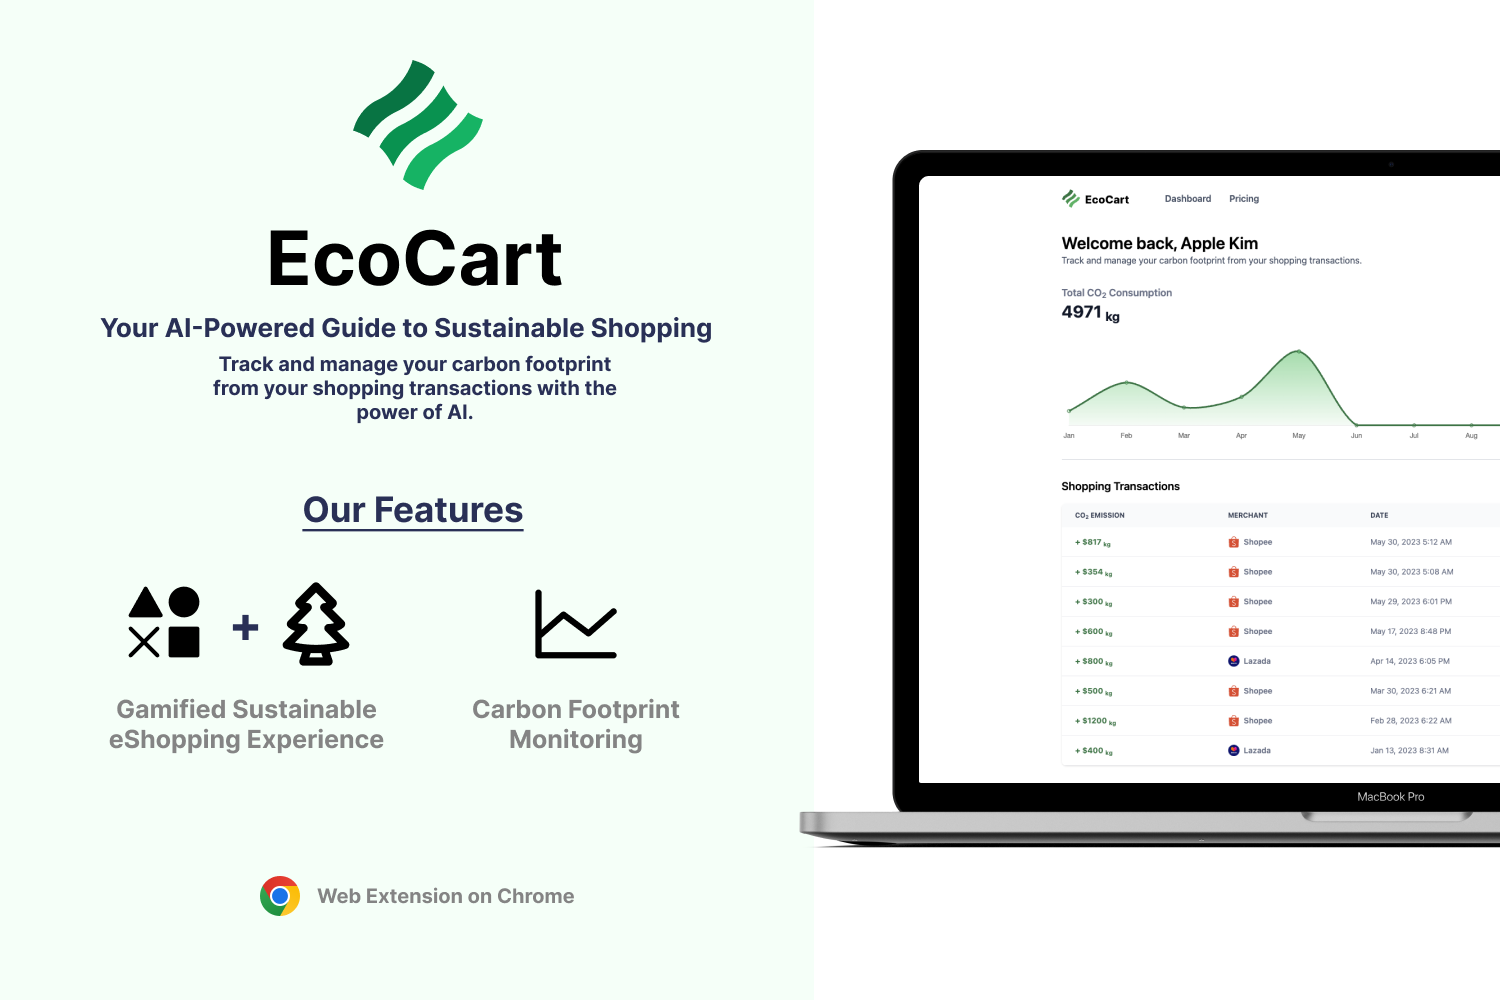
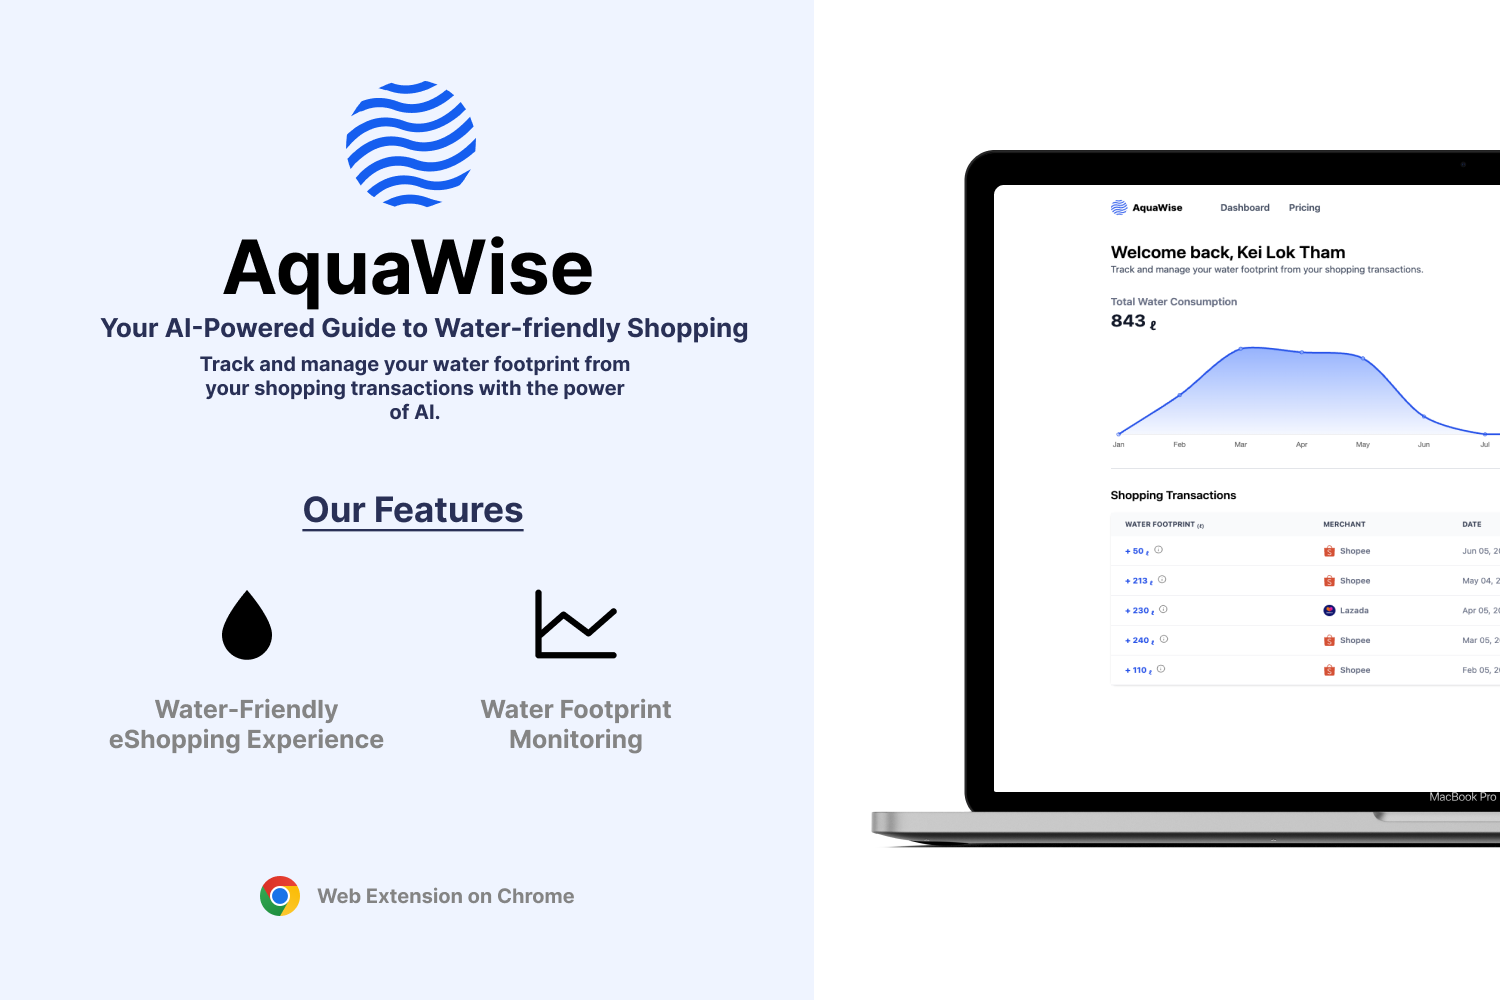
[Feat] Tidying up the code base (final push?)

diff --git a/web-app/components/pages/Dashboard/index.jsx b/web-app/components/pages/Dashboard/index.jsx
@@ -7,10 +7,12 @@ import { useEffect, useState } from "react";
 import Button from "@/components/shared/Button";
 import LogoSGID from "@/public/assets/img/logo-sgid.png";
 import Image from "next/image";
+import { Tooltip as FlowbiteTooltip } from "flowbite-react";
 import { useRouter } from "next/router";
 import { toast } from "react-toastify";
 import LogoShopee from "@/public/assets/svg/icon-shopee.svg";
 import LogoLazada from "@/public/assets/svg/icon-lazada.svg";
+import LogoInfo from "@/public/assets/svg/icon-info.svg";
 import dayjs from "dayjs";
 import { Line } from "react-chartjs-2";
 import {
@@ -24,6 +26,7 @@ import {
   Legend
 } from "chart.js";
 import { chartData, chartLabels, chartOptions } from "./chart";
+import { mockTransactions } from "./mock";
 
 const Dashboard = () => {
   const supabaseClient = useSupabaseClient();
@@ -104,12 +107,54 @@ const Dashboard = () => {
               return true;
             });
 
+            const breakdownJSON = JSON.parse(data.breakdown);
+            let formattedBreakdown = `Breakdown: \n\n`;
+            // Loop through breakdown JSON
+            if (data.breakdown) {
+              Object.keys(breakdownJSON).forEach(function (key1, index1) {
+                if (index1 !== Object.keys(breakdownJSON).length - 1) {
+                  formattedBreakdown += `Product: ${key1}\n`;
+                } else {
+                  formattedBreakdown += `\n\nProduct: ${key1}\n`;
+                }
+
+                Object.keys(breakdownJSON[key1]).forEach(function (
+                  key2,
+                  index2
+                ) {
+                  const formattedKey =
+                    key2.charAt(0).toUpperCase() + key2.slice(1);
+                  if (index2 !== Object.keys(breakdownJSON[key1]).length - 1) {
+                    formattedBreakdown += `- ${formattedKey}: ${breakdownJSON[key1][key2]}\n`;
+                  } else {
+                    formattedBreakdown += `- ${formattedKey}: ${breakdownJSON[key1][key2]}`;
+                  }
+                });
+              });
+            }
+
             return [
               {
                 value: (
-                  <p>
-                    + ${data.water_footprint} <sub>litres (ℓ)</sub>
-                  </p>
+                  <div className="flex">
+                    <p>
+                      + {data.water_footprint} <sub> ℓ</sub>
+                    </p>
+                    <FlowbiteTooltip
+                      content={
+                        <div style={{ whiteSpace: "pre" }}>
+                          {formattedBreakdown}
+                        </div>
+                      }
+                    >
+                      <Image
+                        className="cursor-pointer ml-2"
+                        src={LogoInfo}
+                        width={15}
+                        alt="info"
+                      />
+                    </FlowbiteTooltip>
+                  </div>
                 ),
                 isLink: false
               },
@@ -132,7 +177,6 @@ const Dashboard = () => {
         setRawChartData(chartDataArr);
         setTotalCO(chartDataArr.reduce((a, b) => a + b, 0));
       }
-      console.log(dataTwo);
     })();
   }, []);
 
@@ -168,7 +212,7 @@ const Dashboard = () => {
   );
 
   return (
-    <MainLayout title={"Dashboard | EcoCart"}>
+    <MainLayout title={"Dashboard | AquaWise"}>
       {sgidVerified ? (
         <div className="max-w-screen-xl flex flex-col m-auto justify-center px-16">
           <div className="mt-5">
@@ -223,7 +267,8 @@ const Dashboard = () => {
               Verification Required.
             </h1>
             <p className="text-md text-gray-600">
-              To access EcoCart's services, please verify your account via SGID.
+              To access AquaWise's services, please verify your account via
+              SGID.
             </p>
           </div>
 

diff --git a/extensions/src/foreground.ts b/extensions/src/foreground.ts
@@ -332,7 +332,10 @@ async function getProductCarbonFootprintData(productInformation) {
 
     return res.data;
   } catch (err) {
-    console.log("Error occured while fetching product's carbon footprint data", err);
+    console.log(
+      "Error occured while fetching product's carbon footprint data",
+      err,
+    );
   }
 }
 
@@ -448,7 +451,7 @@ const addReinforcement = async function (data: string) {
 
   const node = document.createElement('div');
   node.id = 'ecocart-flag';
-  node.innerHTML = `<div class="ecocart-banner" style="border: 1px solid let(--petalc); color: let(--petalc); background: #CBF0C1; padding: 1rem; font: 0.9rem sans-serif; margin-bottom: 1rem; padding-left: 1rem; padding-top: 1rem; padding-bottom: 1rem; border-radius: 5px;">
+  node.innerHTML = `<div class="ecocart-banner" style="border: 1px solid let(--petalc); color: let(--petalc); background: #D1E0FF; padding: 1rem; font: 0.9rem sans-serif; margin-bottom: 1rem; padding-left: 1rem; padding-top: 1rem; padding-bottom: 1rem; border-radius: 5px;">
       <span style="display: flex; justify-content: center; align-items: center;">
         <span class="tooltip">
           <img src="https://cdn-icons-png.flaticon.com/512/665/665049.png" style="height: 17px; width: 17px; margin-right: 10px;">
@@ -459,8 +462,8 @@ const addReinforcement = async function (data: string) {
         </p>
       </span>
       <div style="display: flex; justify-content: flex-end; align-items: center;">
-        <img src="https://ecocart-lifehack2023.netlify.app/favicon.ico" style="height: 17px; width: 17px; margin-right: 10px;" />
-        <h1 style="font-size: 12px;">EcoCart</h1>
+        <img src="http://localhost:3002/favicon.ico" style="height: 17px; width: 17px; margin-right: 10px;" />
+        <h1 style="font-size: 12px;">AquaWise</h1>
       </div>  
     </div>`;
 

diff --git a/web-app/components/pages/Dashboard/mock.js b/web-app/components/pages/Dashboard/mock.js
@@ -3,30 +3,42 @@ export const mockTransactions = [
     water_footprint: 300,
     merchant: "Shopee",
     date: "2023-05-29T10:01:31.567519+00:00",
-    transaction_link: "https://flowbite.com/docs/components/tables/"
+    transaction_link: "https://flowbite.com/docs/components/tables/",
+    breakdown: `{
+      "Iphone": {
+        "screen" : 500,
+        "battery": 200,
+        "processor": 150,
+        "casing": 100,
+        "others": 500,
+        "assembly": 200,
+        "transportation": 150
+      },
+      "Laptop": {
+        "Casing": 5000,
+        "Screen": 1500,
+        "Battery": 2000,
+        "Processor": 1200,
+        "Assembly": 300,
+        "Packaging": 200
+      }
+    }`
   },
   {
     water_footprint: 450,
     merchant: "Lazada",
     date: "2023-05-29T10:01:31.567519+00:00",
-    transaction_link: "https://tailwindcss.com/docs/border-width"
-  },
-  {
-    water_footprint: 300,
-    merchant: "Shopee",
-    date: "2023-05-29T10:01:31.567519+00:00",
-    transaction_link: "https://flowbite.com/docs/components/tables/"
-  },
-  {
-    water_footprint: 300,
-    merchant: "Shopee",
-    date: "2023-05-29T10:01:31.567519+00:00",
-    transaction_link: "https://flowbite.com/docs/components/tables/"
-  },
-  {
-    water_footprint: 300,
-    merchant: "Shopee",
-    date: "2023-05-29T10:01:31.567519+00:00",
-    transaction_link: "https://flowbite.com/docs/components/tables/"
+    transaction_link: "https://tailwindcss.com/docs/border-width",
+    breakdown: `{
+        "Iphone": {
+          "screen" : 500,
+          "battery": 200,
+          "processor": 150,
+          "casing": 100,
+          "others": 500,
+          "assembly": 200,
+          "transportation": 150
+        }
+      }`
   }
 ];

diff --git a/extensions/src/search.ts b/extensions/src/search.ts
@@ -61,9 +61,9 @@ const PREFERRED_BRANDS = [
               // Prepend the pill to the card
               const pill = document.createElement('div');
               pill.innerHTML = `
-                  <div style="color: #084C2E; width: 100%; border-radius: 3px; border: 1px solid #099250; white-space: nowrap; display: inline-block; font-size: 0.8em; padding: 0.125rem 0.25rem; text-align: center; margin-bottom: 10px;">
-                  <img src="https://ecocart-lifehack2023.netlify.app/favicon.ico" style="height: 10px; width: 10px; margin-right: 5px;" />
-                      EcoCart Preferred
+                  <div style="color: #528BFF; width: 100%; border-radius: 3px; border: 1px solid #004EEB; white-space: nowrap; display: inline-block; font-size: 0.8em; padding: 0.125rem 0.25rem; text-align: center; margin-bottom: 10px;">
+                  <img src="http://localhost:3002/favicon.ico" style="height: 10px; width: 10px; margin-right: 5px;" />
+                    AquaWise Preferred
                   </div>
                 `;
               card.querySelector('.hpDKMN')?.prepend(pill);

diff --git a/web-app/components/shared/Table/index.jsx b/web-app/components/shared/Table/index.jsx
@@ -1,9 +1,8 @@
 import Image from "next/image";
-import { Tooltip } from "flowbite-react";
 
 const Table = ({ columns, rows }) => {
   return (
-    <div className="relative overflow-x-auto shadow rounded-lg">
+    <div className="relative shadow rounded-lg">
       <table className="w-full text-sm text-left text-gray-500">
         <thead className="text-xs text-gray-700 uppercase bg-gray-50">
           <tr>
@@ -30,7 +29,7 @@ const Table = ({ columns, rows }) => {
                   scope="row"
                   className="px-6 py-4 font-bold text-primary-700"
                 >
-                  <Tooltip content="Tooltip content">{row[0].value}</Tooltip>
+                  {row[0].value}
                 </th>
                 <td className="px-6 py-4 font-semibold">{row[1].value}</td>
                 <td className="px-6 py-4">{row[2].value}</td>

diff --git a/web-app/config/constants.js b/web-app/config/constants.js
@@ -7,9 +7,8 @@ export const SUPABASE_CONFIG = {
 
 export const ENVIRONMENT = process.env.NEXT_PUBLIC_ENVIRONMENT || "DEV";
 export const PORT = process.env.NEXT_PUBLIC_PORT || 3002;
-export const PROD_HOST = "https://ecocart-lifehack2023.netlify.app";
 export const BASE_URLS = {
-  PROD: PROD_HOST,
+  PROD: `http://localhost:${PORT}`,
   DEV: `http://localhost:${PORT}`
 };
 export const BASE_URL = BASE_URLS[ENVIRONMENT];

diff --git a/extensions/static/popup.html b/extensions/static/popup.html
@@ -11,8 +11,8 @@
   <body>
     <div class="popup-container">
       <img src="img/logo-34.png" alt="logo" />
-      <h1>EcoCart</h1>
-      <p>AI Powered Sustainable Shopping Companion</p>
+      <h1>AquaWise</h1>
+      <p>Your Water-friendly Shopping Companion Powered by AI</p>
       <div class="popup-dynamic-area">
         <button class="btn-auth">Login</button>
       </div>

diff --git a/web-app/pages/_app.jsx b/web-app/pages/_app.jsx
@@ -3,6 +3,8 @@ import { useState } from "react";
 import "react-toastify/dist/ReactToastify.css";
 import { ToastContainer } from "react-toastify";
 
+import "react-tooltip/dist/react-tooltip.css";
+
 import "@/styles/globals.css";
 import ErrorBoundary from "@/components/pages/ErrorBoundary";
 import { createPagesBrowserClient } from "@supabase/auth-helpers-nextjs";

diff --git a/web-app/components/layout/Footer.jsx b/web-app/components/layout/Footer.jsx
@@ -52,7 +52,7 @@ const Footer = () => {
                 Join our newsletter
               </h2>
               <p className="text-gray-600">
-                Stay updated with the latest happenings from EcoCart.
+                Stay updated with the latest happenings from AquaWise.
               </p>
             </div>
             <div className="ml-2 w-full">

diff --git a/extensions/styles/popup.scss b/extensions/styles/popup.scss
@@ -14,6 +14,7 @@
     margin-bottom: 0 !important;
   }
   p {
+    text-align: center;
     margin-top: 10px !important;
     margin-bottom: 10px !important;
   }
@@ -38,7 +39,7 @@
     align-items: center;
     box-sizing: border-box;
     width: fit-content;
-    background-color: #099250;
+    background-color: #2970ff;
     color: white;
 
     &:hover {

diff --git a/web-app/components/pages/Error/index.jsx b/web-app/components/pages/Error/index.jsx
@@ -22,7 +22,7 @@ function Error({ statusCode = 500 }) {
 
   return (
     <MainLayout
-      title={`${statusCode} Error | EcoCart`}
+      title={`${statusCode} Error | AquaWise`}
       className="mx-auto flex w-full max-w-screen-xl flex-col justify-center px-16"
     >
       <p className="font-semibold text-primary-700">{statusCode} error</p>

diff --git a/README.md b/README.md
@@ -4,19 +4,19 @@
 <!-- PROJECT LOGO -->
 <br />
 <div align="center">
-  <a href="https://github.com/keiloktql/LifeHack2023-EcoCart">
+  <a href="https://github.com/Ducksss/HackLah2023-AquaWise">
     <img src="web-app/public/android-chrome-512x512.png" alt="Logo" width="120" height="120">
   </a>
 
-<h3 align="center">EcoCart</h3>
+<h3 align="center">AquaWise</h3>
 
   <p align="center">
-    Sustainable Shopping Companion Powered by AI
+    Because every drop counts! AI-Powered Water-friendly Shopping Companion
     <br />
     <br />
-    <a href="https://github.com/keiloktql/LifeHack2023-EcoCart/issues">Report Bugs</a>
+    <a href="https://github.com/Ducksss/HackLah2023-AquaWise/issues">Report Bugs</a>
     ·
-    <a href="https://github.com/keiloktql/LifeHack2023-EcoCart/issues">Request Features</a>
+    <a href="https://github.com/Ducksss/HackLah2023-AquaWise/issues">Request Features</a>
   </p>
 </div>
 
@@ -40,15 +40,17 @@
 
 <a href="#about-the-project"></a>
 
-![](https://github.com/keiloktql/LifeHack2023-EcoCart/blob/main/promotion/poster-1.png)
+![](https://github.com/Ducksss/HackLah2023-AquaWise/blob/main/promotion/poster-1.png)
 
-EcoCart is an AI-powered Sustainable Shopping Companion that helps users reduce their water footprint. It consists of a user-friendly dashboard web app and a browser extension for seamless transaction tracking.
+AquaWise is an innovative AI-powered Water Conservation Companion designed to address water scarcity issues. It serves as a user-friendly dashboard web app and a browser extension for seamless tracking of water consumption.
 
-With EcoCart, users can effortlessly monitor their water footprint by integrating the browser extension with popular e-commerce platforms. The AI technology analyzes the data, providing detailed insights into the environmental impact of each purchase.
+With AquaWise, users can effortlessly monitor and manage their water footprint by integrating the browser extension with popular online platforms. The advanced AI technology analyzes water usage data, providing detailed insights into the water impact of each purchase and activity.
 
-The intuitive dashboard empowers users to track their progress, and make informed decisions. The interactive charts and gamified experience guide users towards eco-friendly alternatives and conscious consumption habits.
+The intuitive AquaWise dashboard empowers users to track their water usage, set conservation goals, and make informed decisions. Interactive visualizations and personalized recommendations guide users towards water-efficient alternatives and promote conscious water consumption habits.
 
-EcoCart promotes sustainable living by combining AI, a user-friendly dashboard, and a transaction-tracking web extension. Together, we can make a positive impact on the environment through mindful shopping choices.
+AquaWise plays a crucial role in promoting water sustainability by combining AI technology, a user-friendly dashboard, and a water-tracking web extension. Together, we can make a positive impact on water scarcity by fostering a culture of responsible water consumption.
+
+Join us on this journey with AquaWise, and together, let's work towards a sustainable future where every drop counts.
 
 <p align="right">(<a href="#top">back to top</a>)</p>
 
@@ -135,7 +137,7 @@ Distributed under the MIT License. See `LICENSE.txt` for more information.
 
 - Chai Pin Zheng (Frontend Engineer/Web Extension Engineer) - [LinkedIn](https://www.linkedin.com/in/chai-pin-zheng-5610921aa/)
 
-- Tan Yu Hoe (AI Engineer/Backend Engineer) - [LinkedIn](https://www.linkedin.com/in/yu-hoe-tan/)
+- Ang Kah Shin (AI Engineer) - [LinkedIn](https://www.linkedin.com/in/kahshinang/)
 
 Project Link: [https://github.com/keiloktql/LifeHack2023-EcoCart](https://github.com/keiloktql/LifeHack2023-EcoCart)
 
@@ -151,7 +153,8 @@ Project Link: [https://github.com/keiloktql/LifeHack2023-EcoCart](https://github
 
 ## More Images
 
-![](https://github.com/keiloktql/LifeHack2023-EcoCart/blob/main/promotion/poster-2.png)
+![](https://github.com/Ducksss/HackLah2023-AquaWise/blob/main/promotion/poster-2.png)
 
-![](https://github.com/keiloktql/LifeHack2023-EcoCart/blob/main/promotion/poster-3.png)
-# HackLah2023-EcoCart
+![](https://github.com/Ducksss/HackLah2023-AquaWise/blob/main/promotion/poster-3.png)
+
+![](https://github.com/Ducksss/HackLah2023-AquaWise/blob/main/promotion/poster-4.png)
